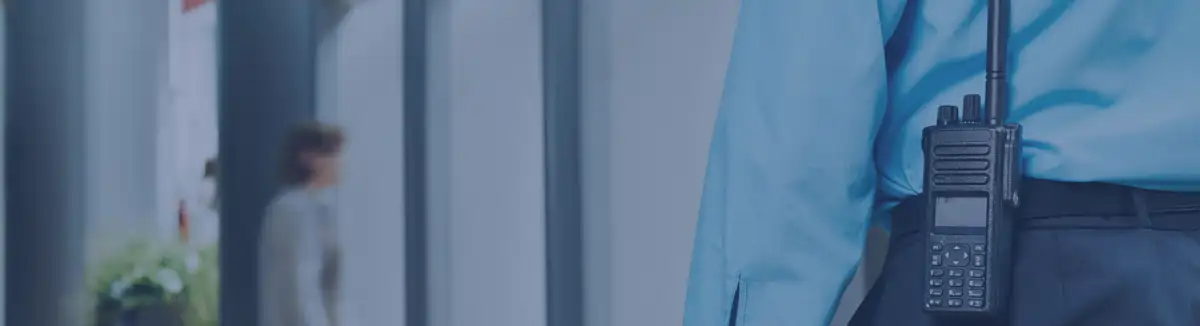
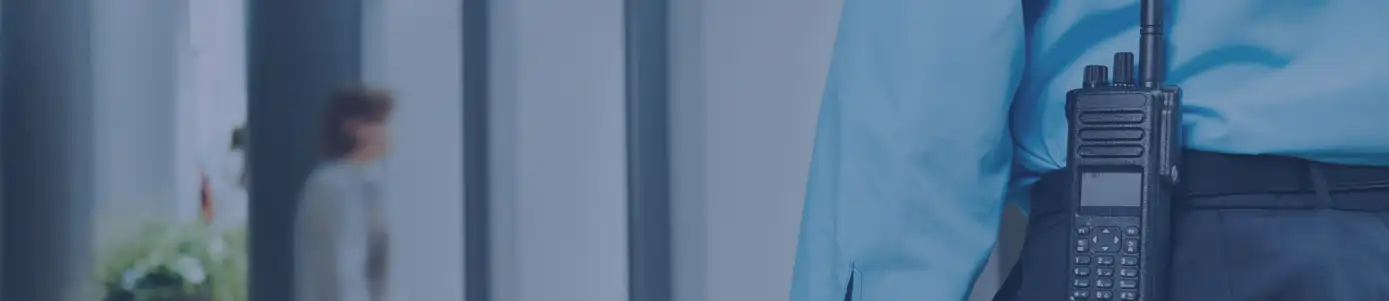
Class aboutBanner renamed to a generic one titleBanner and relocated to base.scss

diff --git a/css/styles.css b/css/styles.css
@@ -17,6 +17,12 @@ main {
   text-shadow: 0 0 5px #000;
 }
 
+.titleBanner {
+  background-image: url(../assets/images/slide-01.webp);
+  background-size: cover;
+  background-position: center;
+}
+
 /*START ANIMATIONS ------------------------------------------- */
 /*START ANIMATED BUTTON -------------------------------------- */
 /* Variables use ----------------------------------------------*/
@@ -225,11 +231,6 @@ main {
 
 /* ---------------------------------------------------------*/
 /* ABOUT US -------------------------------------------------- */
-.aboutBanner {
-  background-image: url(../assets/images/slide-01.webp);
-  background-size: cover;
-}
-
 .misVisVal {
   max-width: -moz-fit-content;
   max-width: fit-content;

diff --git a/pages/cotizacion.html b/pages/cotizacion.html
@@ -92,7 +92,7 @@
 		<!-- Main content  -->
 		<main>
 			<!-- Start PAGE BANNER --------------------------------------->
-			<div class="aboutBanner p-5 text-white">
+			<div class="titleBanner p-5 text-white">
 				<div class="col">
 					<h5>SOLICITE SU COTIZACIÓN ONLINE</h5>
 				</div>

diff --git a/pages/servicios.html b/pages/servicios.html
@@ -92,7 +92,7 @@
 		<!-- Main content  -->
 		<main class="pb-5">
 			<!-- Start PAGE BANNER --------------------------------------->
-			<div class="aboutBanner p-5 text-white">
+			<div class="titleBanner p-5 text-white">
 				<div class="col">
 					<h5>SERVICIOS</h5>
 				</div>

diff --git a/pages/contacto.html b/pages/contacto.html
@@ -94,7 +94,7 @@
 		<!-- Main content  -->
 		<main>
 			<!-- Start PAGE BANNER --------------------------------------->
-			<div class="aboutBanner p-5 text-white">
+			<div class="titleBanner p-5 text-white">
 				<div class="col">
 					<h5>CONTACTO</h5>
 				</div>

diff --git a/pages/quienesSomos.html b/pages/quienesSomos.html
@@ -98,7 +98,7 @@
 
 		<main>
 			<!-- Start PAGE BANNER --------------------------------------->
-			<div class="aboutBanner p-5 text-white">
+			<div class="titleBanner p-5 text-white">
 				<div class="col">
 					<h5>QUIENES SOMOS</h5>
 				</div>

diff --git a/scss/pages/_aboutus.scss b/scss/pages/_aboutus.scss
@@ -1,8 +1,4 @@
 /* ABOUT US -------------------------------------------------- */
-.aboutBanner {
-	background-image: url(../assets/images/slide-01.webp);
-	background-size: cover;
-}
 
 .misVisVal {
 	max-width: fit-content;

diff --git a/scss/base/_base.scss b/scss/base/_base.scss
@@ -14,3 +14,9 @@ main {
 .textShadow {
 	text-shadow: 0 0 5px #000;
 }
+
+.titleBanner {
+	background-image: url(../assets/images/slide-01.webp);
+	background-size: cover;
+	background-position: center;
+}
